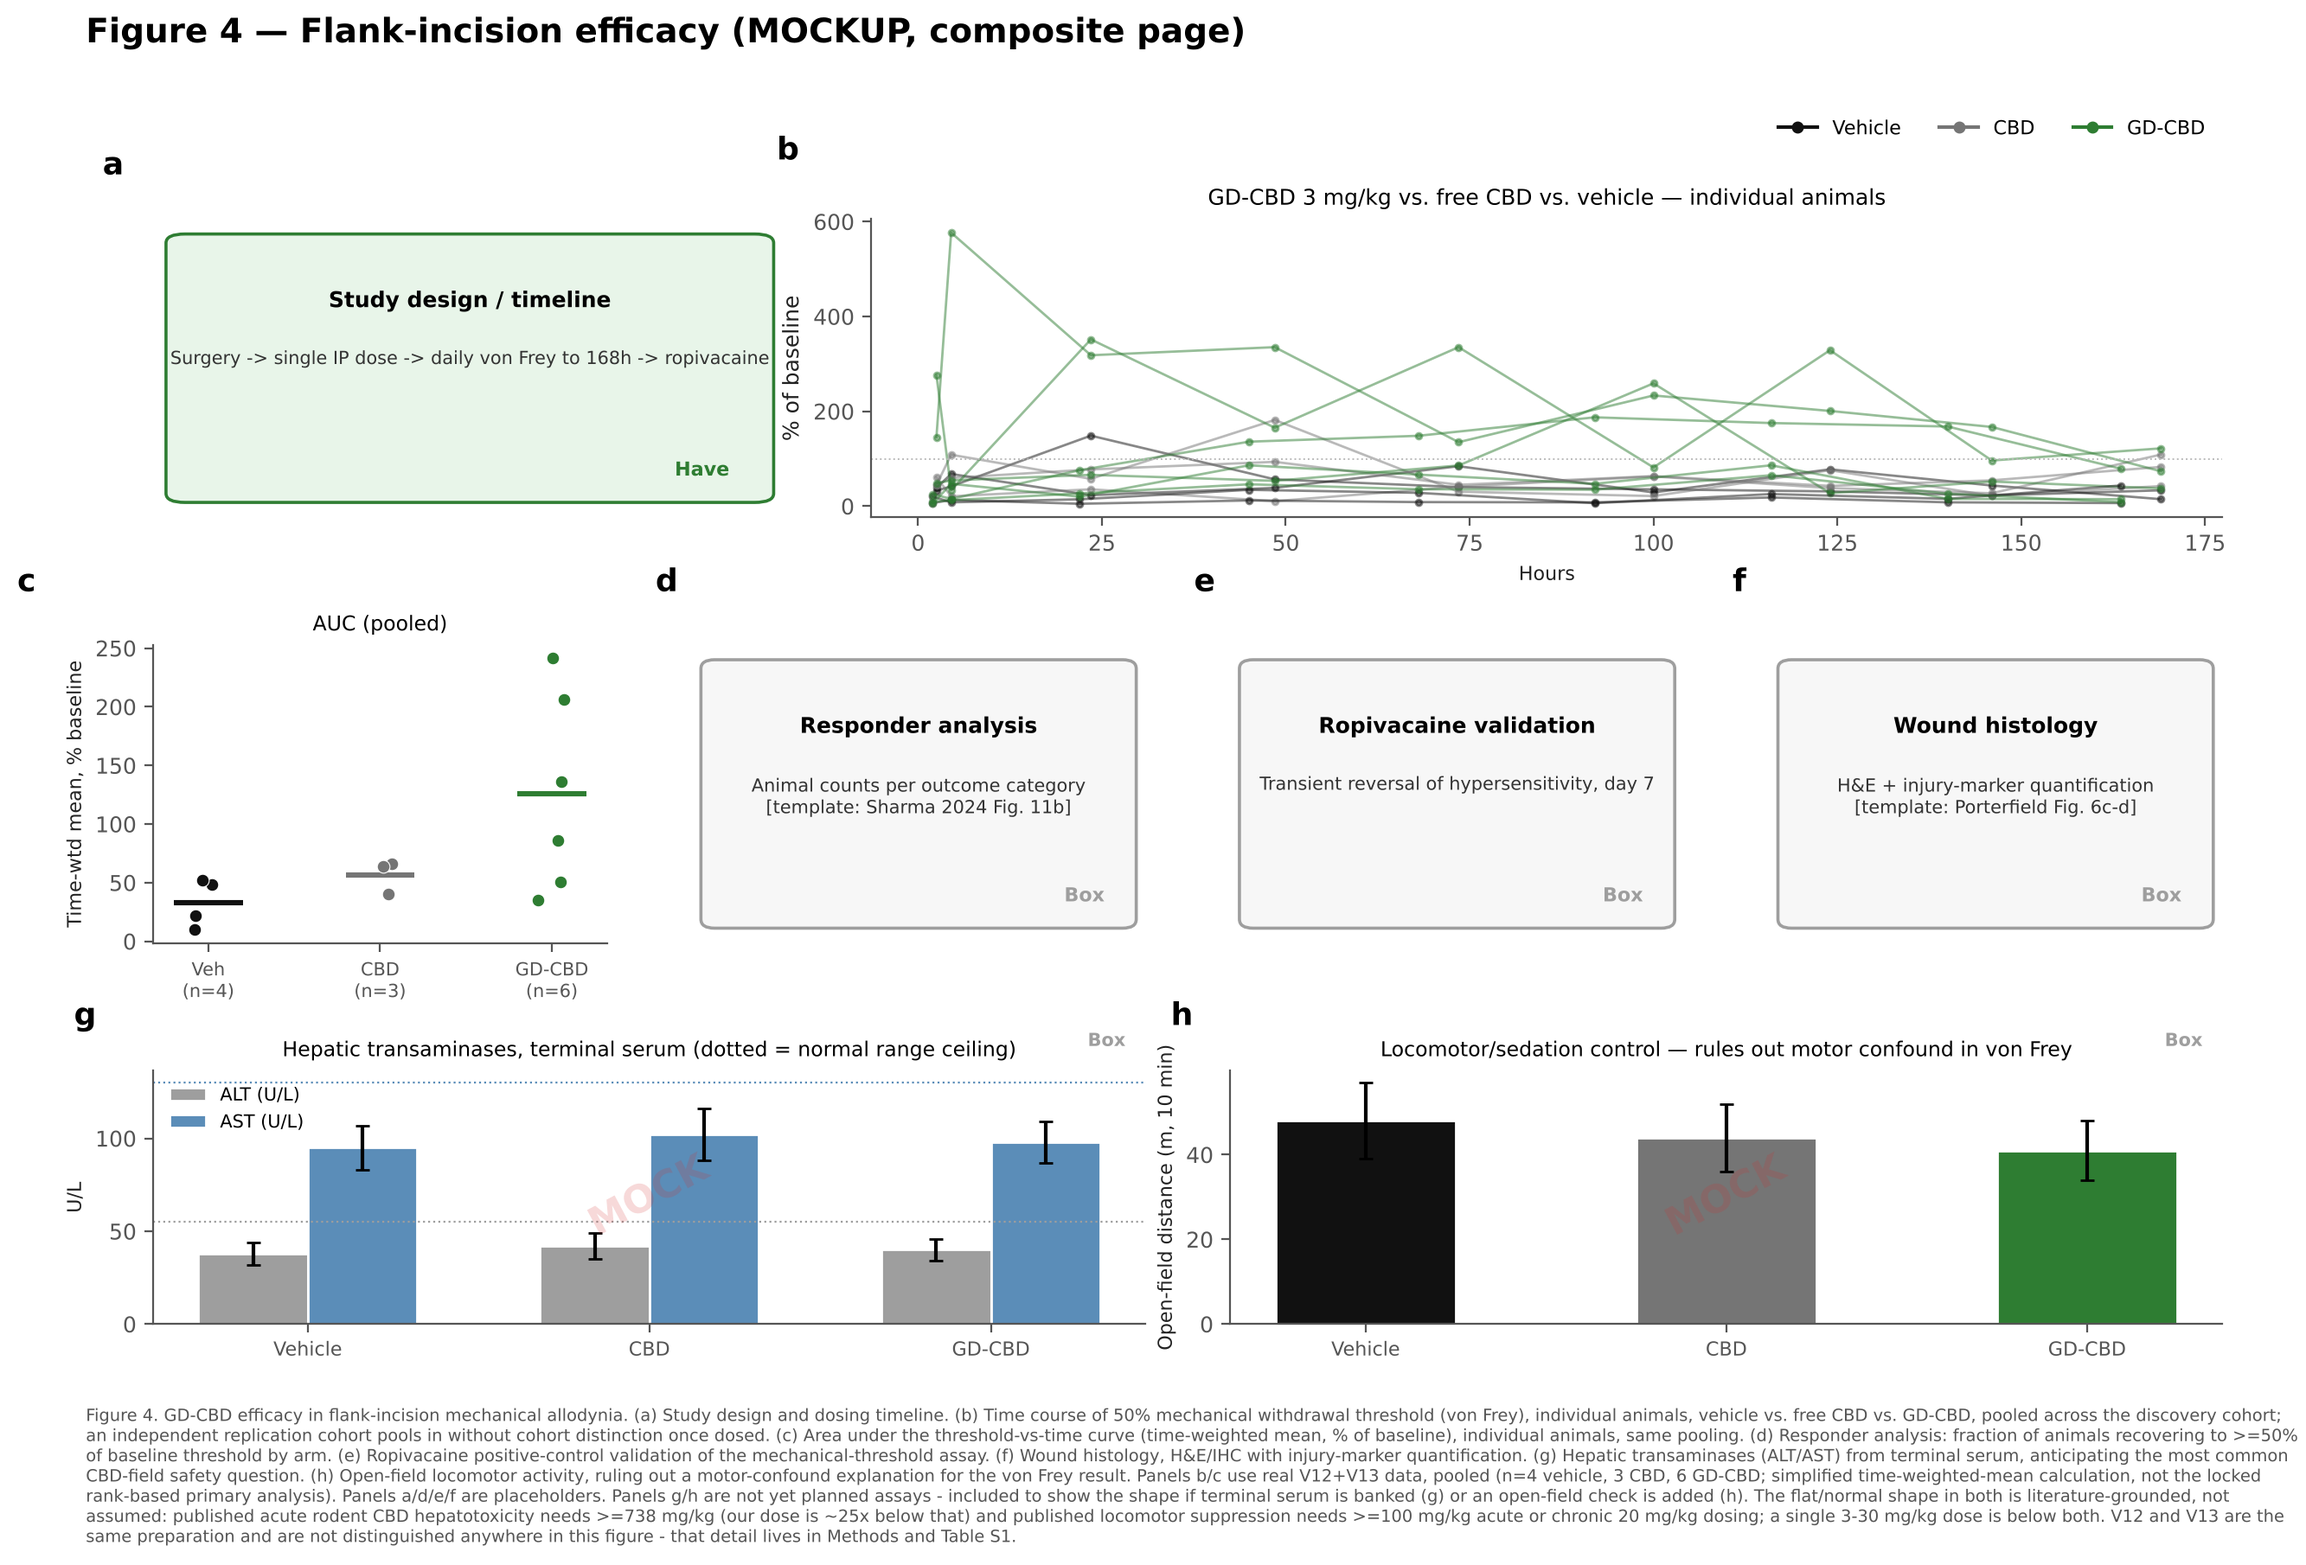
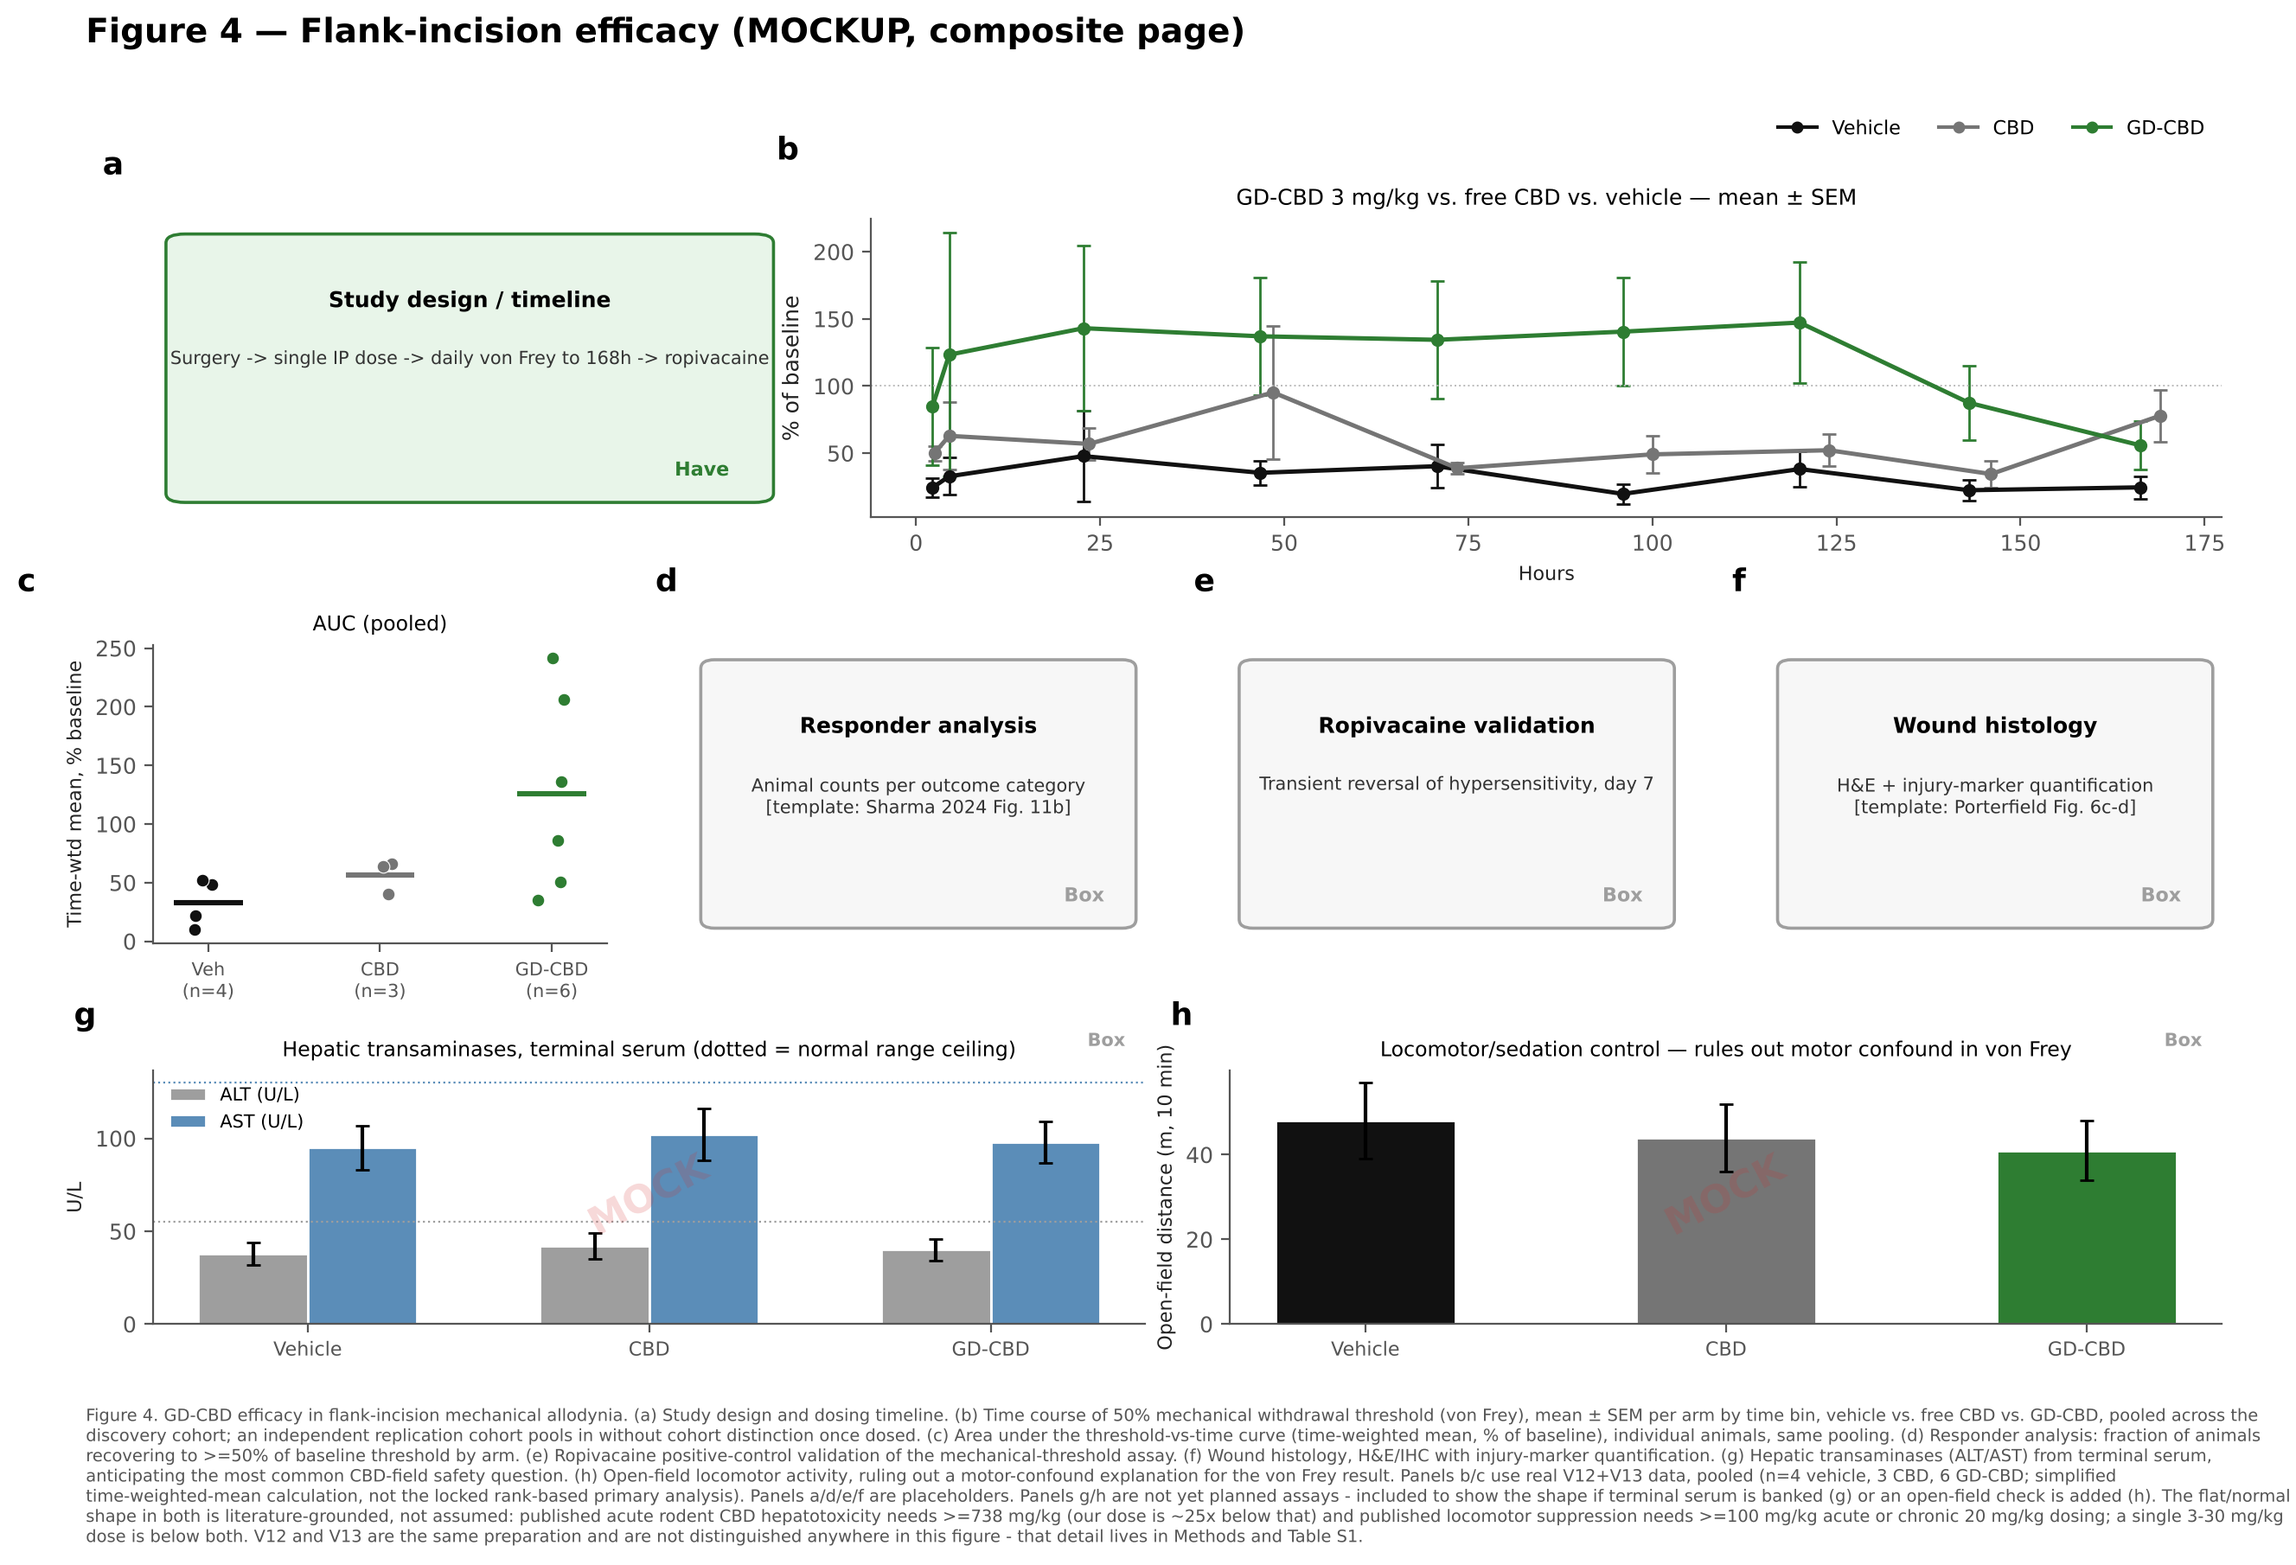
Switch Figure 4 panel b to mean +/- SEM, matching the collaborator's timecourse style
User: "4b should be more like the figure that I showed you" - the real
epilepsy timecourse panel (Figure 3b, from the collaborator's slides)
plots group mean +/- error bars per time bin, not individual-animal
spaghetti lines. Panel b used the latter, which made the GD-CBD arm's
early spike look chaotic and was a harder read than the convention the
rest of this figure set follows.

V12 and V13 each sample 9 timepoints at closely matching bin positions,
so pooling by bin index across cohorts/animals (mean + SEM per arm per
bin) is well-defined and still draws no cohort distinction, same as
before. No significance brackets added - this is real pooled data but a
simplified calculation (already stated in the caption), not the locked
rank-based primary analysis, so there's no p-value yet to honestly
annotate.

Claude-Session: https://claude.ai/code/session_01QzWRSRZ9CNkGodGiMwM5wp

diff --git a/figures/mockups/build_fig4_composite.py b/figures/mockups/build_fig4_composite.py
@@ -100,17 +100,34 @@ ax_a = fig.add_subplot(gs[0, 0:4])
 box_panel(ax_a, "Study design / timeline", "Surgery -> single IP dose -> daily von Frey to 168h -> ropivacaine", "Have")
 ax_a.text(-0.08, 1.15, "a", transform=ax_a.transAxes, fontsize=13, fontweight="bold")
 
-# Panel b: time course, pooled, individual animals, no cohort distinction drawn
+# Panel b: time course, pooled, mean +/- SEM per arm per time bin - matches the
+# collaborator's own timecourse convention (Figure 3b: group mean+error bars across
+# time bins, not individual-animal spaghetti lines), not the earlier per-animal version.
+# V12 and V13 each sample 9 timepoints at closely matching bin positions (e.g. ~2-4h,
+# ~22-24h, ~45-48h...), so pooling by bin index across cohorts/animals is well-defined
+# and draws no cohort distinction, same as before. No significance brackets are drawn -
+# this is real pooled data but a simplified calculation (caption says so), not the
+# locked rank-based primary analysis, so no p-values exist yet to annotate honestly.
 ax_b = fig.add_subplot(gs[0, 4:12])
-for cohort in COHORTS:
-    for arm in ARM_ORDER:
+n_bins = 9
+for arm in ARM_ORDER:
+    bin_hours = [[] for _ in range(n_bins)]
+    bin_vals = [[] for _ in range(n_bins)]
+    for cohort in COHORTS:
         if arm not in cohort:
             continue
         baselines, hours, values = cohort[arm]
         for animal in pct_baseline(baselines, values):
-            ax_b.plot(hours, animal, color=COLOR[arm], linewidth=1.0, alpha=0.5, marker="o", markersize=2.5)
+            for i in range(n_bins):
+                bin_hours[i].append(hours[i])
+                bin_vals[i].append(animal[i])
+    mean_h = [np.mean(h) for h in bin_hours]
+    mean_v = [np.mean(v) for v in bin_vals]
+    sem_v = [np.std(v, ddof=1) / np.sqrt(len(v)) for v in bin_vals]
+    ax_b.errorbar(mean_h, mean_v, yerr=sem_v, color=COLOR[arm], linewidth=1.8, marker="o",
+                  markersize=4.5, capsize=3, elinewidth=1, label=arm)
 ax_b.axhline(100, color="#bbbbbb", linewidth=0.7, linestyle=":")
-ax_b.set_title("GD-CBD 3 mg/kg vs. free CBD vs. vehicle — individual animals", fontsize=9)
+ax_b.set_title("GD-CBD 3 mg/kg vs. free CBD vs. vehicle — mean ± SEM", fontsize=9)
 ax_b.set_xlabel("Hours", fontsize=8)
 ax_b.set_ylabel("% of baseline")
 ax_b.text(-0.07, 1.2, "b", transform=ax_b.transAxes, fontsize=13, fontweight="bold")
@@ -191,8 +208,8 @@ status_tag(ax_h, "Box")
 
 fig.text(0.02, 0.01,
          "Figure 4. GD-CBD efficacy in flank-incision mechanical allodynia. (a) Study design and dosing timeline. (b) Time course of 50% mechanical withdrawal "
-         "threshold (von Frey), individual animals, vehicle vs. free CBD vs. GD-CBD, pooled across the discovery cohort; an independent replication cohort pools "
-         "in without cohort distinction once dosed. (c) Area under the threshold-vs-time curve (time-weighted mean, % of baseline), individual animals, same "
+         "threshold (von Frey), mean ± SEM per arm by time bin, vehicle vs. free CBD vs. GD-CBD, pooled across the discovery cohort; an independent replication "
+         "cohort pools in without cohort distinction once dosed. (c) Area under the threshold-vs-time curve (time-weighted mean, % of baseline), individual animals, same "
          "pooling. (d) Responder analysis: fraction of animals recovering to >=50% of baseline threshold by arm. (e) Ropivacaine positive-control validation of "
          "the mechanical-threshold assay. (f) Wound histology, H&E/IHC with injury-marker quantification. (g) Hepatic transaminases (ALT/AST) from terminal "
          "serum, anticipating the most common CBD-field safety question. (h) Open-field locomotor activity, ruling out a motor-confound explanation for the "
